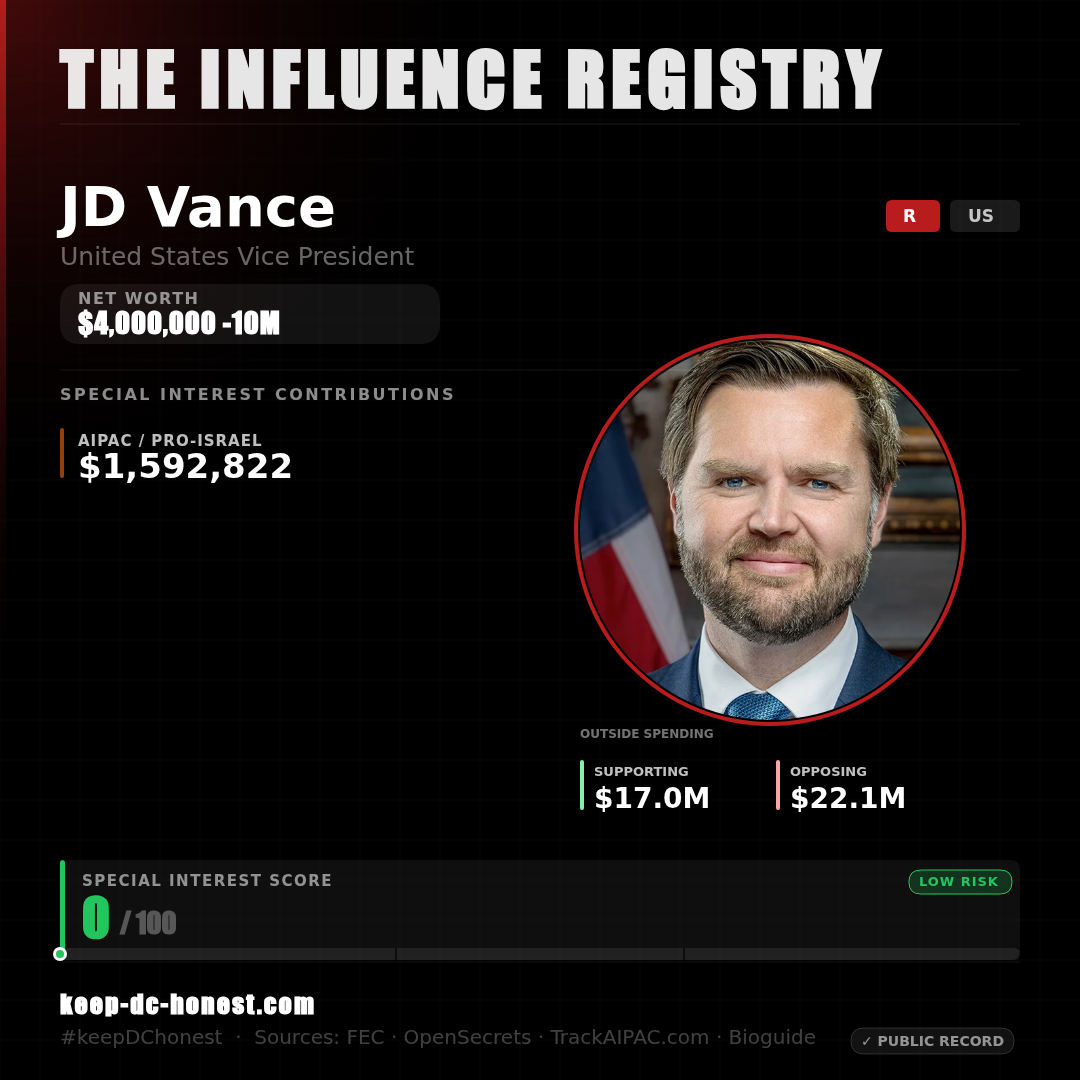
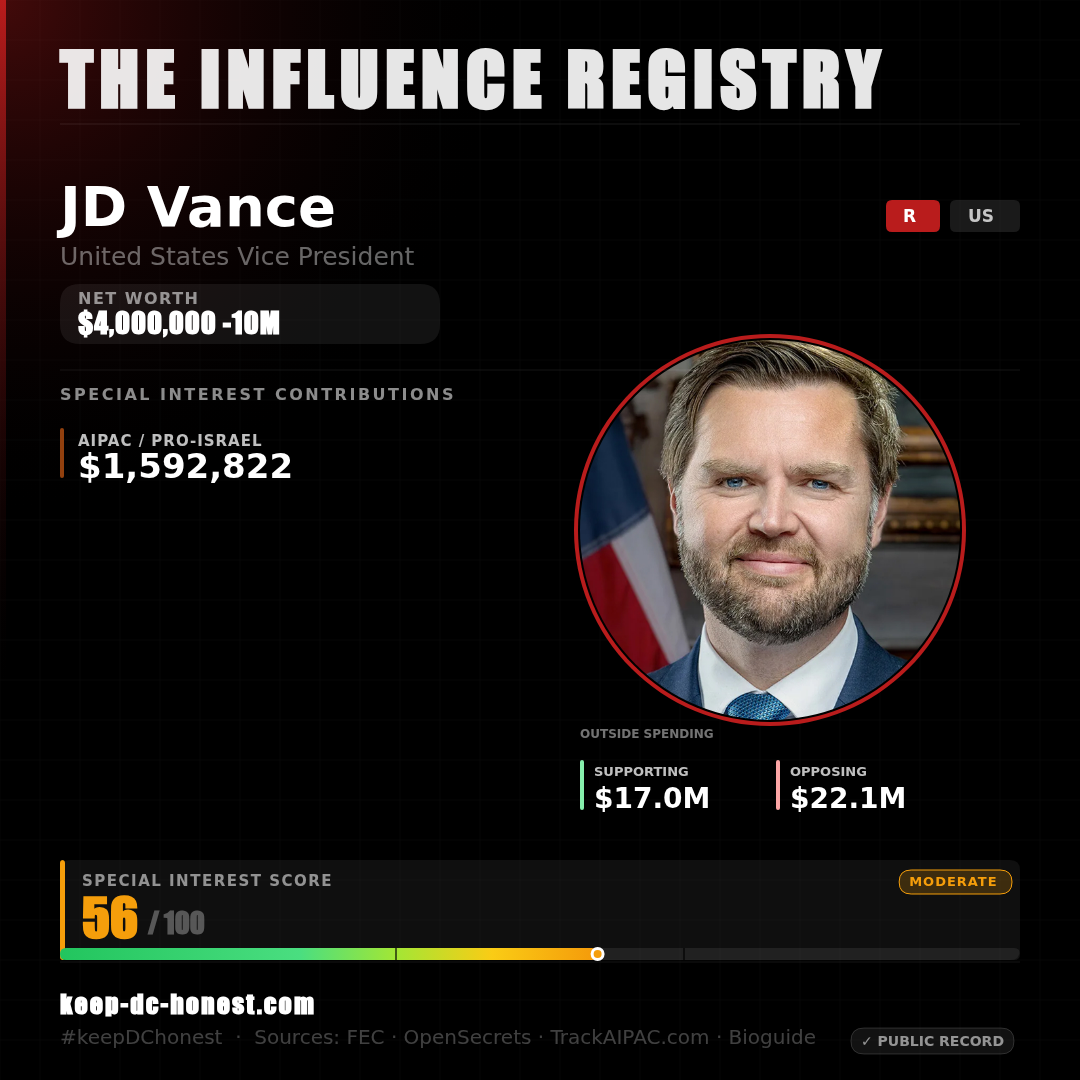
Regenerate scores, share cards, static pages, sitemap

Changed region(s): [[0.0306, 0.7944, 0.55, 0.8861], [0.825, 0.7944, 0.9472, 0.8556]]

diff --git a/member/donald-trump/index.html b/member/donald-trump/index.html
@@ -4,7 +4,7 @@
 <meta charset="UTF-8">
 <meta name="viewport" content="width=device-width,initial-scale=1">
 <title>Donald Trump | President of the United States | The Influence Registry</title>
-<meta name="description" content="President of the United States. Special Interest Money Score: 0/100. Net worth: $4-7B est..">
+<meta name="description" content="President of the United States. Special Interest Money Score: 94/100. Net worth: $4-7B est..">
 <link rel="canonical" href="https://www.keep-dc-honest.com/member/donald-trump">
 
 <!-- ── Open Graph / Social Preview ── -->
@@ -13,7 +13,7 @@
 <meta property="og:site_name"   content="The Influence Registry">
 <meta property="og:url"         content="https://www.keep-dc-honest.com/member/donald-trump">
 <meta property="og:title"       content="Donald Trump | President of the United States | The Influence Registry">
-<meta property="og:description" content="President of the United States. Special Interest Money Score: 0/100. Net worth: $4-7B est..">
+<meta property="og:description" content="President of the United States. Special Interest Money Score: 94/100. Net worth: $4-7B est..">
 <meta property="og:image"       content="https://www.keep-dc-honest.com/assets/share-cards/donald-trump.png">
 <meta property="og:image:alt"   content="Donald Trump, President of the United States">
 <meta property="og:image:width" content="1080">
@@ -25,7 +25,7 @@
 <meta name="twitter:card"        content="summary_large_image">
 <meta name="twitter:site"        content="@keepdchonest">
 <meta name="twitter:title"       content="Donald Trump | President of the United States | The Influence Registry">
-<meta name="twitter:description" content="President of the United States. Special Interest Money Score: 0/100. Net worth: $4-7B est..">
+<meta name="twitter:description" content="President of the United States. Special Interest Money Score: 94/100. Net worth: $4-7B est..">
 <meta name="twitter:image"       content="https://www.keep-dc-honest.com/assets/share-cards/donald-trump.png">
 <meta name="twitter:image:alt"   content="Donald Trump, President of the United States">
 
@@ -141,7 +141,7 @@ body{margin:0;font-family:-apple-system,BlinkMacSystemFont,'Segoe UI',sans-serif
     </a>
   </header>
 
-  <div class="profile-summary"><div class="stat"><div class="stat-label">Score</div><div class="stat-value">0/100 · Clean</div></div>
+  <div class="profile-summary"><div class="stat"><div class="stat-label">Score</div><div class="stat-value">94/100 · High Risk</div></div>
     <div class="stat"><div class="stat-label">Net worth</div><div class="stat-value">$4-7B est.</div></div>
     <div class="stat"><div class="stat-label">Tenure</div><div class="stat-value">2017-2021, 2025-present</div></div></div>
 

diff --git a/member/marco-rubio/index.html b/member/marco-rubio/index.html
@@ -4,7 +4,7 @@
 <meta charset="UTF-8">
 <meta name="viewport" content="width=device-width,initial-scale=1">
 <title>Marco Rubio | Secretary of State | The Influence Registry</title>
-<meta name="description" content="Secretary of State. Special Interest Money Score: 0/100. Net worth: $700K, $1M (est.).">
+<meta name="description" content="Secretary of State. Special Interest Money Score: 94/100. Net worth: $700K, $1M (est.).">
 <link rel="canonical" href="https://www.keep-dc-honest.com/member/marco-rubio">
 
 <!-- ── Open Graph / Social Preview ── -->
@@ -13,7 +13,7 @@
 <meta property="og:site_name"   content="The Influence Registry">
 <meta property="og:url"         content="https://www.keep-dc-honest.com/member/marco-rubio">
 <meta property="og:title"       content="Marco Rubio | Secretary of State | The Influence Registry">
-<meta property="og:description" content="Secretary of State. Special Interest Money Score: 0/100. Net worth: $700K, $1M (est.).">
+<meta property="og:description" content="Secretary of State. Special Interest Money Score: 94/100. Net worth: $700K, $1M (est.).">
 <meta property="og:image"       content="https://www.keep-dc-honest.com/assets/share-cards/marco-rubio.png">
 <meta property="og:image:alt"   content="Marco Rubio, Secretary of State">
 <meta property="og:image:width" content="1080">
@@ -25,7 +25,7 @@
 <meta name="twitter:card"        content="summary_large_image">
 <meta name="twitter:site"        content="@keepdchonest">
 <meta name="twitter:title"       content="Marco Rubio | Secretary of State | The Influence Registry">
-<meta name="twitter:description" content="Secretary of State. Special Interest Money Score: 0/100. Net worth: $700K, $1M (est.).">
+<meta name="twitter:description" content="Secretary of State. Special Interest Money Score: 94/100. Net worth: $700K, $1M (est.).">
 <meta name="twitter:image"       content="https://www.keep-dc-honest.com/assets/share-cards/marco-rubio.png">
 <meta name="twitter:image:alt"   content="Marco Rubio, Secretary of State">
 
@@ -141,7 +141,7 @@ body{margin:0;font-family:-apple-system,BlinkMacSystemFont,'Segoe UI',sans-serif
     </a>
   </header>
 
-  <div class="profile-summary"><div class="stat"><div class="stat-label">Score</div><div class="stat-value">0/100 · Clean</div></div>
+  <div class="profile-summary"><div class="stat"><div class="stat-label">Score</div><div class="stat-value">94/100 · High Risk</div></div>
     <div class="stat"><div class="stat-label">Net worth</div><div class="stat-value">$700K, $1M (est.)</div></div>
     <div class="stat"><div class="stat-label">Tenure</div><div class="stat-value">2011-present</div></div></div>
 

diff --git a/member/jd-vance/index.html b/member/jd-vance/index.html
@@ -4,7 +4,7 @@
 <meta charset="UTF-8">
 <meta name="viewport" content="width=device-width,initial-scale=1">
 <title>JD Vance | Vice President | The Influence Registry</title>
-<meta name="description" content="Vice President. Special Interest Money Score: 0/100. Net worth: $4-10M.">
+<meta name="description" content="Vice President. Special Interest Money Score: 56/100. Net worth: $4-10M.">
 <link rel="canonical" href="https://www.keep-dc-honest.com/member/jd-vance">
 
 <!-- ── Open Graph / Social Preview ── -->
@@ -13,7 +13,7 @@
 <meta property="og:site_name"   content="The Influence Registry">
 <meta property="og:url"         content="https://www.keep-dc-honest.com/member/jd-vance">
 <meta property="og:title"       content="JD Vance | Vice President | The Influence Registry">
-<meta property="og:description" content="Vice President. Special Interest Money Score: 0/100. Net worth: $4-10M.">
+<meta property="og:description" content="Vice President. Special Interest Money Score: 56/100. Net worth: $4-10M.">
 <meta property="og:image"       content="https://www.keep-dc-honest.com/assets/share-cards/jd-vance.png">
 <meta property="og:image:alt"   content="JD Vance, Vice President">
 <meta property="og:image:width" content="1080">
@@ -25,7 +25,7 @@
 <meta name="twitter:card"        content="summary_large_image">
 <meta name="twitter:site"        content="@keepdchonest">
 <meta name="twitter:title"       content="JD Vance | Vice President | The Influence Registry">
-<meta name="twitter:description" content="Vice President. Special Interest Money Score: 0/100. Net worth: $4-10M.">
+<meta name="twitter:description" content="Vice President. Special Interest Money Score: 56/100. Net worth: $4-10M.">
 <meta name="twitter:image"       content="https://www.keep-dc-honest.com/assets/share-cards/jd-vance.png">
 <meta name="twitter:image:alt"   content="JD Vance, Vice President">
 
@@ -141,7 +141,7 @@ body{margin:0;font-family:-apple-system,BlinkMacSystemFont,'Segoe UI',sans-serif
     </a>
   </header>
 
-  <div class="profile-summary"><div class="stat"><div class="stat-label">Score</div><div class="stat-value">0/100 · Clean</div></div>
+  <div class="profile-summary"><div class="stat"><div class="stat-label">Score</div><div class="stat-value">56/100 · Some Corporate</div></div>
     <div class="stat"><div class="stat-label">Net worth</div><div class="stat-value">$4-10M</div></div>
     <div class="stat"><div class="stat-label">Tenure</div><div class="stat-value">2023-2025 (Senate), 2025-present (VP)</div></div></div>
 
